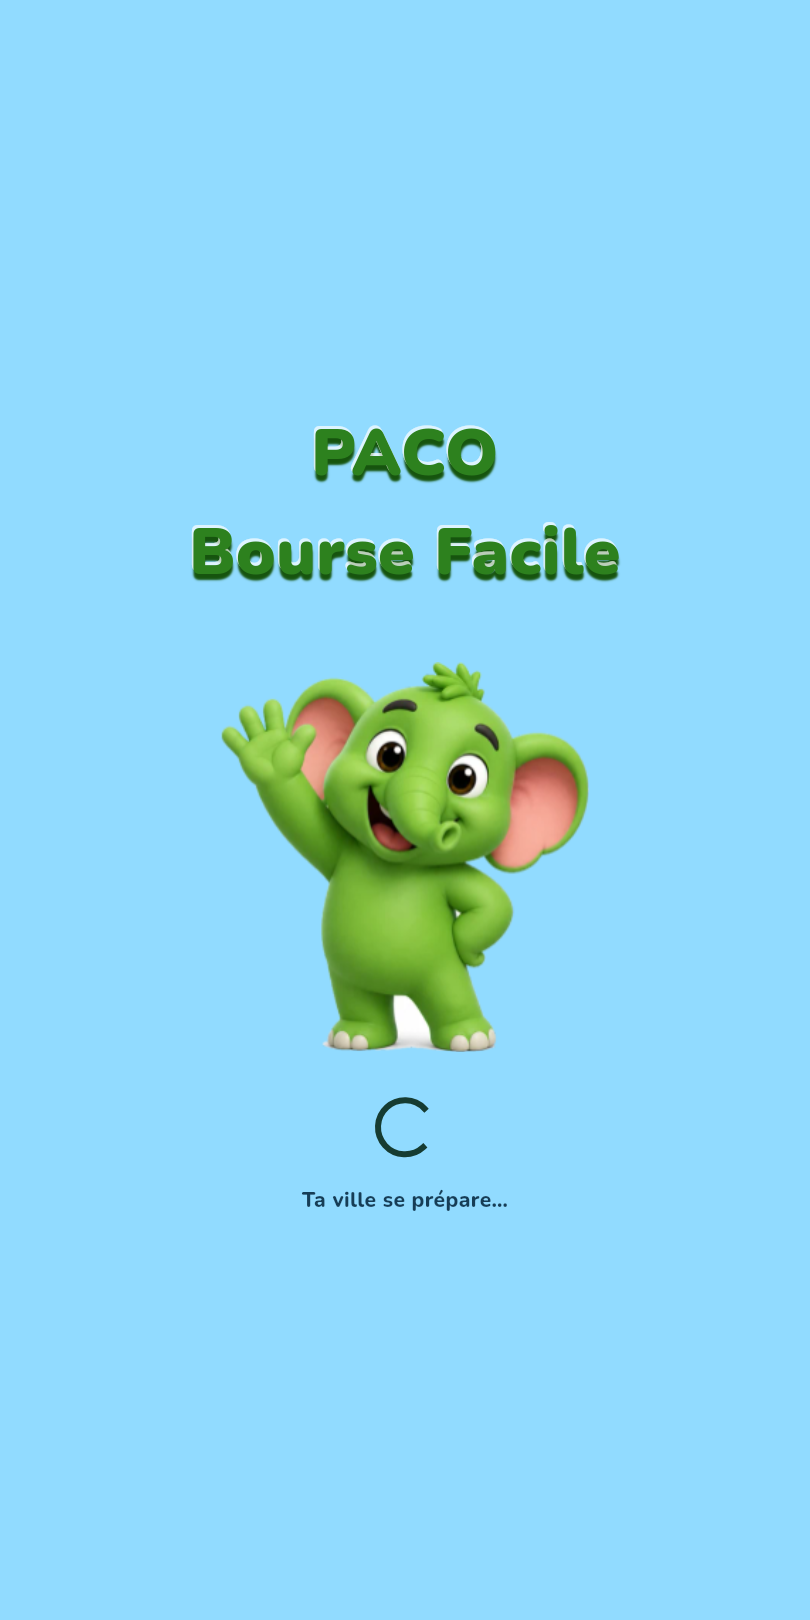
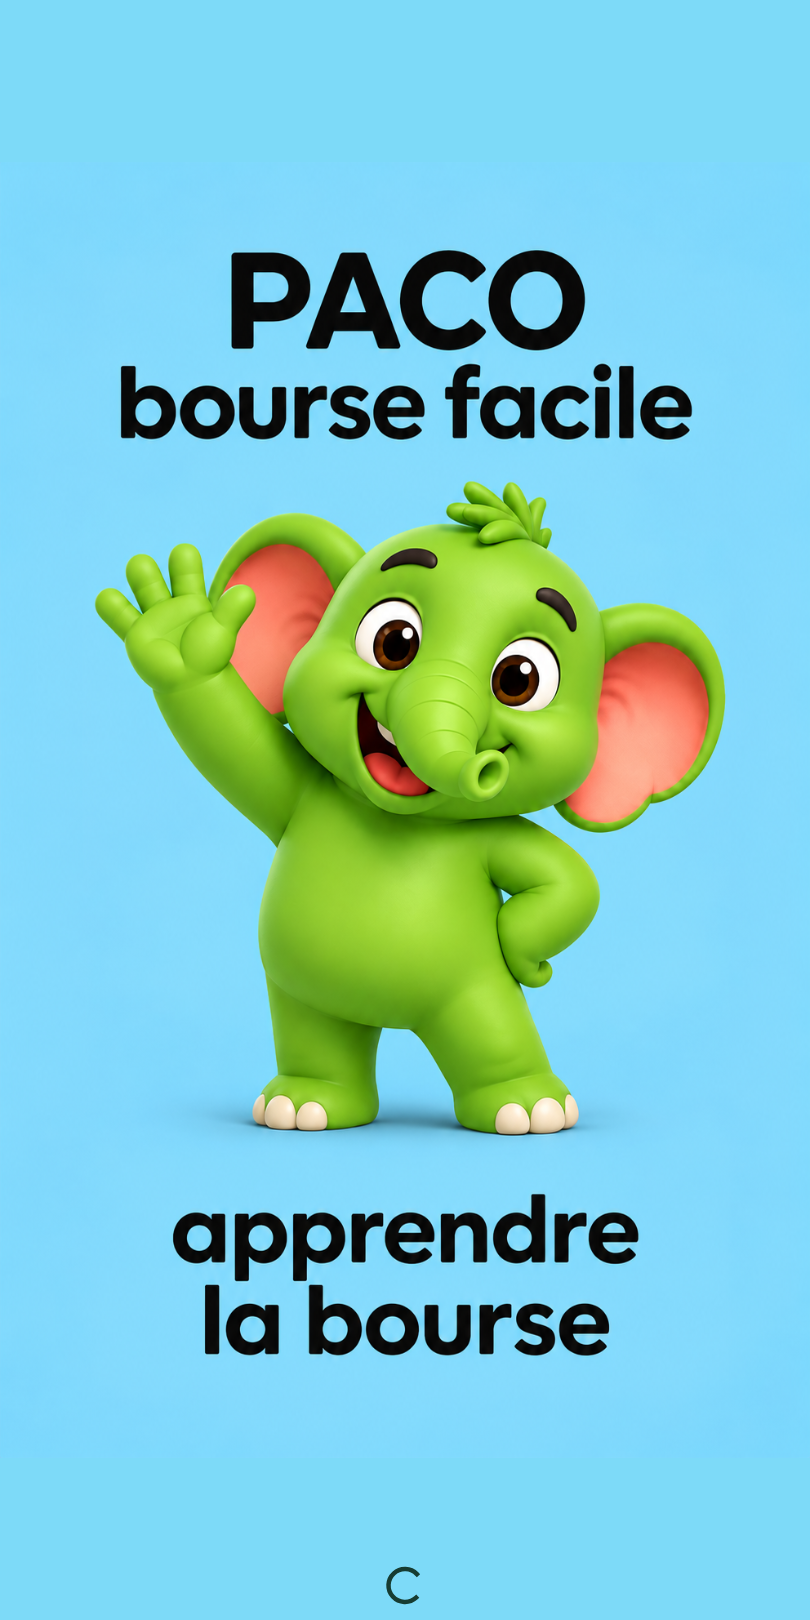
fix: use supplied Paco artwork with title above and learning tagline below

Changed region(s): [[0.1235, 0.1543, 0.8951, 0.8642], [0.463, 0.9568, 0.5247, 1.0]]

diff --git a/lib/ui/loading_screen.dart b/lib/ui/loading_screen.dart
@@ -1,53 +1,42 @@
 import 'package:material_ui/material_ui.dart';
 
-import 'illustrations.dart';
-
 class PacoLoadingScreen extends StatelessWidget {
   const PacoLoadingScreen({super.key});
   @override
   Widget build(BuildContext context) => ColoredBox(
-    color: const Color(0xFF91DBFF),
+    color: const Color(0xFF7DDAF8),
     child: SafeArea(
-      child: Center(
-        child: SingleChildScrollView(
-          child: Padding(
-            padding: const EdgeInsets.all(32),
-            child: Column(
-              mainAxisSize: MainAxisSize.min,
-              children: [
-                const Text(
-                  'PACO\nBourse Facile',
-                  textAlign: TextAlign.center,
-                  style: TextStyle(
-                    fontSize: 44,
-                    fontWeight: FontWeight.w900,
-                    color: Color(0xFF2D811E),
-                    shadows: [
-                      Shadow(
-                        color: Color(0xFF16540E),
-                        offset: Offset(0, 4),
-                        blurRadius: 1,
-                      ),
-                      Shadow(color: Colors.white70, offset: Offset(-1, -2)),
-                    ],
-                  ),
-                ),
-                const SizedBox(height: 40),
-                const PacoMascot(size: 260),
-                const SizedBox(height: 32),
-                const CircularProgressIndicator(),
-                const SizedBox(height: 20),
-                const Text(
-                  'Ta ville se prépare…',
-                  style: TextStyle(
-                    color: Color(0xFF163D56),
-                    fontWeight: FontWeight.w800,
-                  ),
-                ),
-              ],
+      child: Stack(
+        fit: StackFit.expand,
+        children: [
+          Center(
+            child: Semantics(
+              image: true,
+              label: 'PACO bourse facile. apprendre la bourse. Paco te souhaite la bienvenue.',
+              excludeSemantics: true,
+              child: Image.asset(
+                'assets/branding/paco-loading.png',
+                fit: BoxFit.contain,
+                width: double.infinity,
+                height: double.infinity,
+              ),
             ),
           ),
-        ),
+          Positioned(
+            left: 0,
+            right: 0,
+            bottom: 12,
+            child: Center(
+              child: Semantics(
+                label: 'Chargement du jeu',
+                child: SizedBox.square(
+                  dimension: 22,
+                  child: CircularProgressIndicator(strokeWidth: 3),
+                ),
+              ),
+            ),
+          ),
+        ],
       ),
     ),
   );

diff --git a/docs/RELEASE-0.8.md b/docs/RELEASE-0.8.md
@@ -10,7 +10,7 @@
 - Sauvegarde v6 compatible en lecture v1 à v5. Solde, positions, cartes et acquis conservés ; les placements arrivent vides lors d’une migration. Les trois placements pédagogiques historiques restent visibles en l’absence d’un choix explicite.
 - Trente quiz de campagne reparamétrés à partir de notions pragmatiques et base de 40 exercices originaux, avec explication et action pédagogique. Accès depuis les réglages ; les exercices recommandés sont priorisés selon le suivi local.
 - Directeur statistique local : réussites, échecs, temps, coups, erreurs de quiz et répartition des achats/ventes. Paliers bornés, choisis avant la partie, pas de modification du chronomètre en cours. Entraînements générés après la campagne, sans crédits économiques supplémentaires. Suivi distinct des acquis, réinitialisable ; pas de LLM ni de transmission du comportement à un serveur.
-- Nouvelle icône Android avec Paco, fond bleu ciel et pièce d’or ; déclinaisons de densité et icône adaptative. Écran de chargement bleu ciel, Paco au centre et nom vert en relief. CTA avec bord et profondeur argile.
+- Nouvelle icône Android avec Paco, fond bleu ciel et pièce d’or ; déclinaisons de densité et icône adaptative. Écran de chargement portrait repris du visuel fourni : « PACO bourse facile » au-dessus de Paco et « apprendre la bourse » en dessous, sur fond bleu ciel. CTA avec bord et profondeur argile.
 
 ## Sources et limites explicites
 
